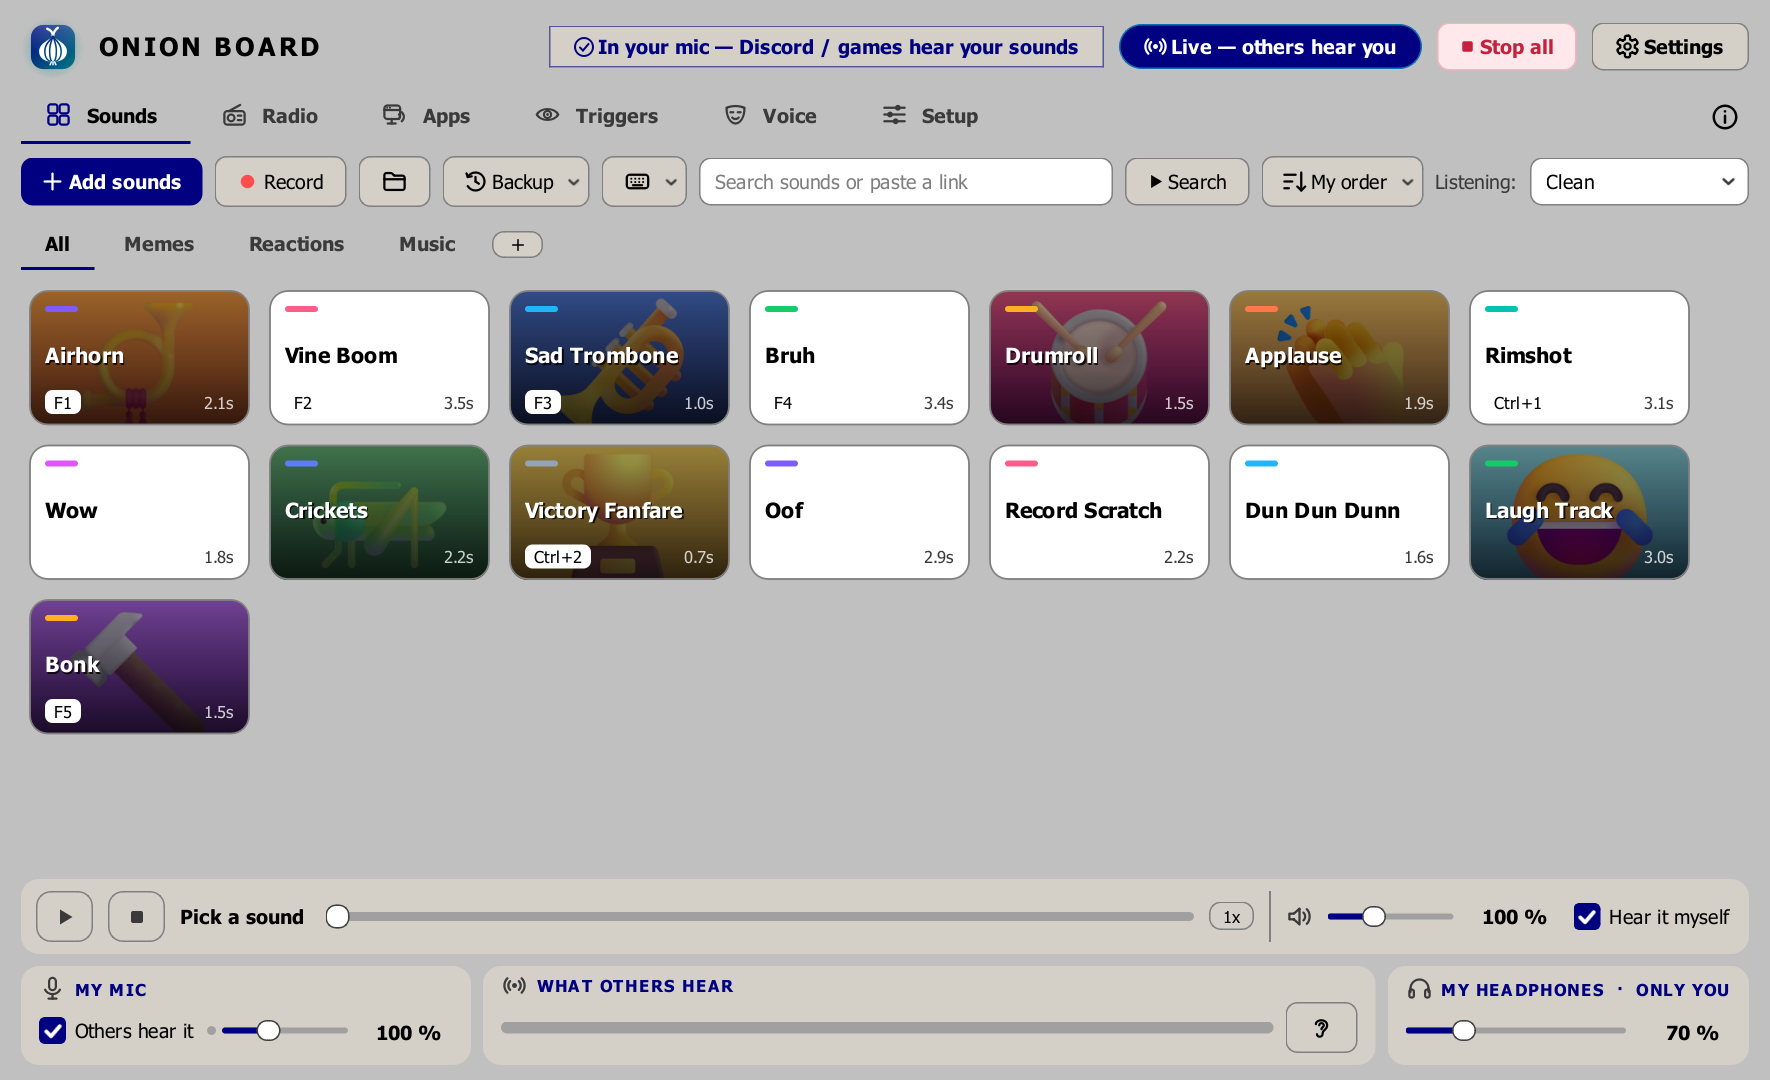
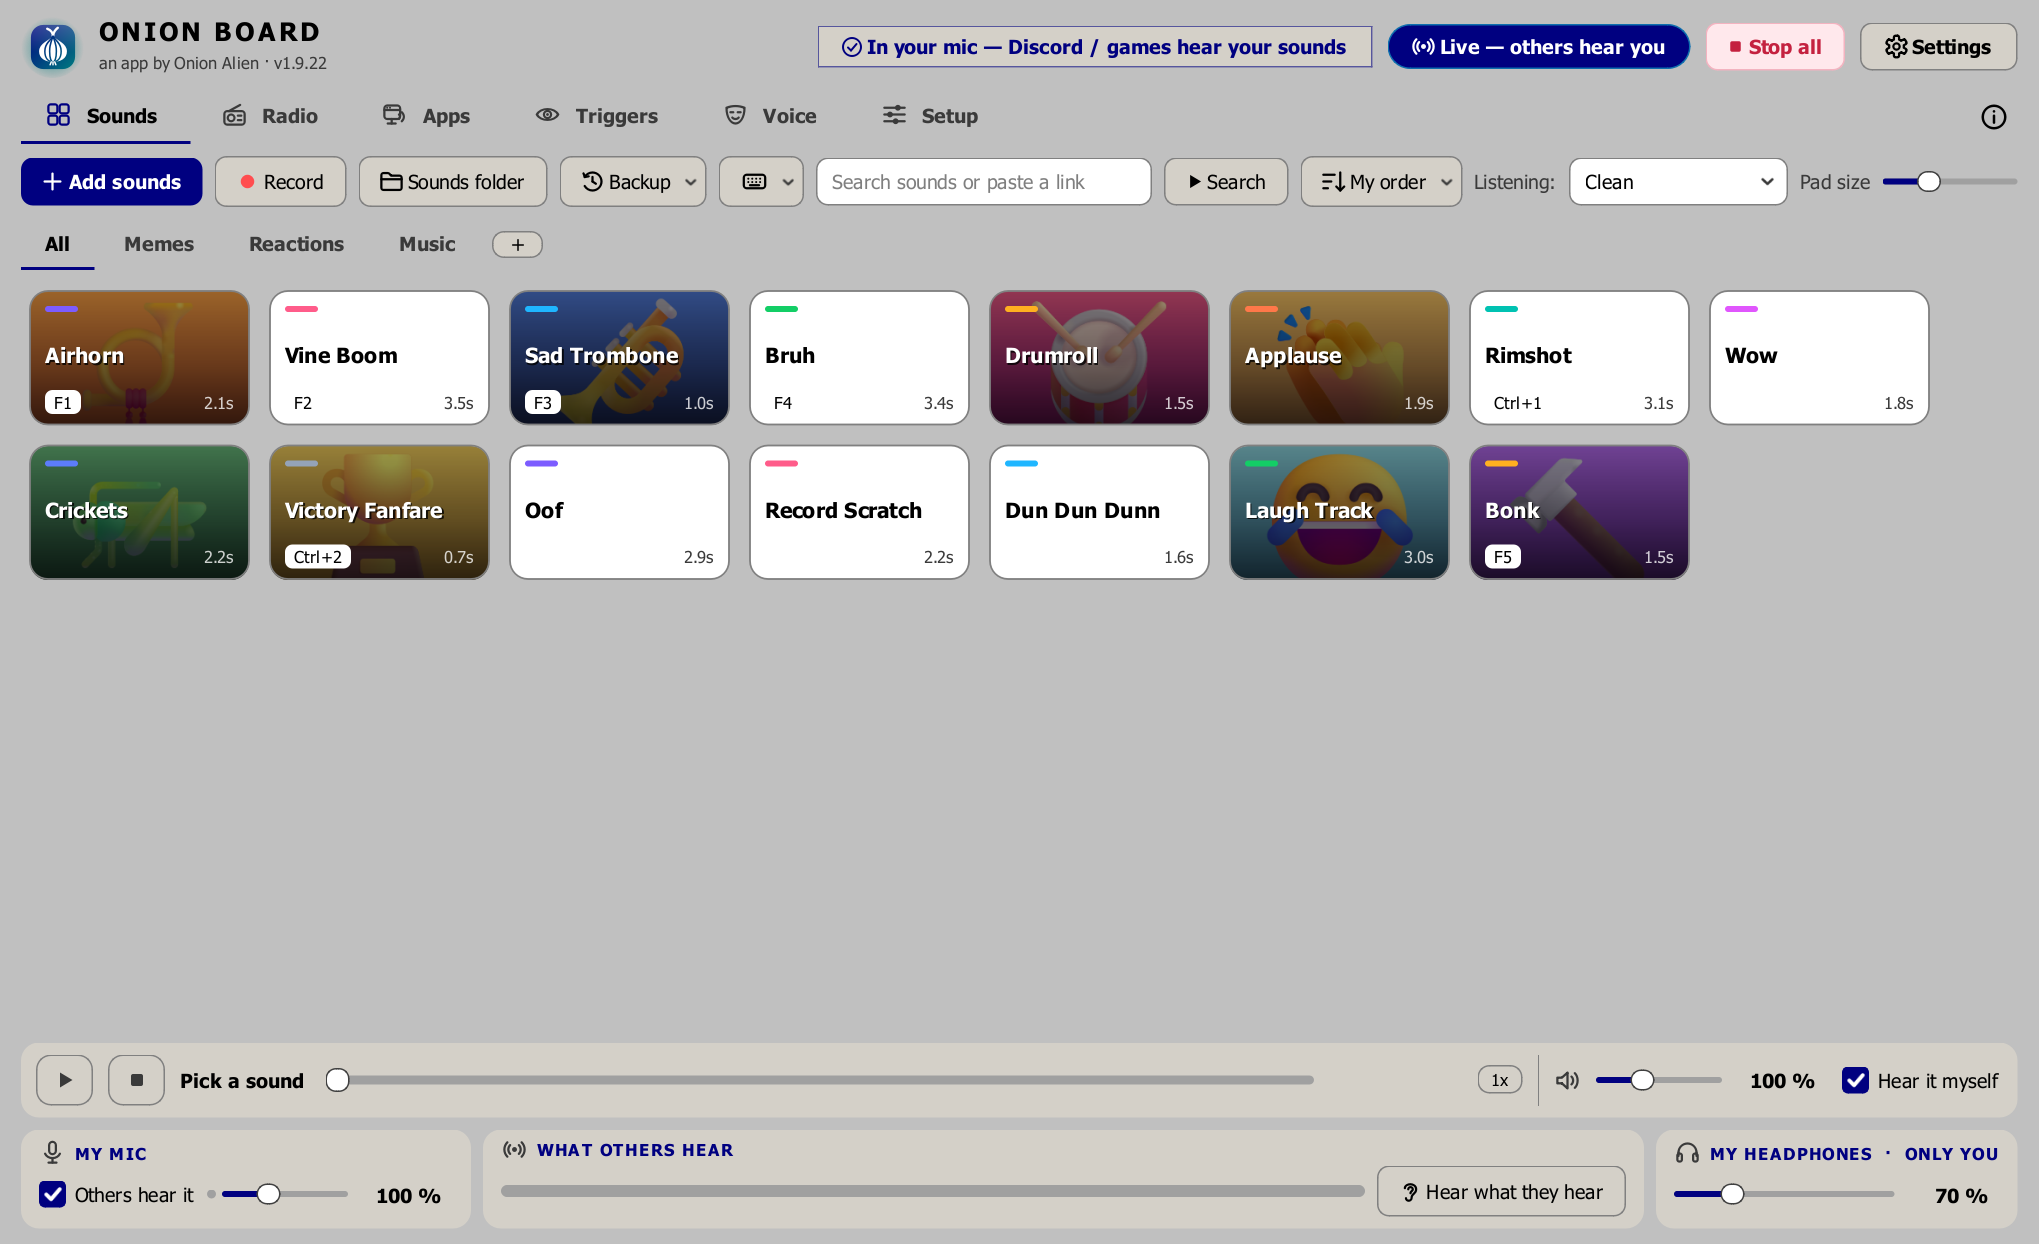
Screenshots: render wide enough that nothing folds away
The top row grew (Record, sort), so at 1180 px the window folded away the tagline with
the version, button words, the time and Hear what they hear. Size the window to what
the content needs instead (now 1359 px, same shape).

diff --git a/docs/index.html b/docs/index.html
@@ -7,7 +7,7 @@
 <meta name="description" content="Free Windows soundboard: play sounds into Discord and games through your mic. In-game hotkeys, an overlay, effects, a voice changer, text-to-speech, instant replay, and screen triggers that play a sound when something shows up, like YOU DIED.">
 <meta property="og:title" content="Onion Board: free soundboard for Discord and games">
 <meta property="og:description" content="Play sounds through your mic in Discord and games. Voice changer, text-to-speech, and screen triggers that play a sound when you die.">
-<meta property="og:image" content="https://onion-alien.github.io/onion-board/screenshots/sounds.png?v=9d6180e1">
+<meta property="og:image" content="https://onion-alien.github.io/onion-board/screenshots/sounds.png?v=ee6b9b29">
 <meta property="og:type" content="website">
 <meta name="twitter:card" content="summary_large_image">
 <link rel="icon" href="favicon.ico" sizes="16x16 32x32 48x48">
@@ -22,7 +22,7 @@
  "description": "Free Windows soundboard: play sounds into Discord and games through your mic, with a voice changer, text-to-speech, in-game hotkeys and screen triggers.",
  "url": "https://onion-alien.github.io/onion-board/",
  "downloadUrl": "https://github.com/Onion-Alien/onion-board/releases/latest/download/OnionBoardSetup.exe",
- "screenshot": "https://onion-alien.github.io/onion-board/screenshots/sounds.png?v=9d6180e1",
+ "screenshot": "https://onion-alien.github.io/onion-board/screenshots/sounds.png?v=ee6b9b29",
  "offers": {"@type": "Offer", "price": "0", "priceCurrency": "USD"}}
 </script>
 <style>
@@ -138,7 +138,7 @@
       <a href="https://www.virustotal.com/gui/file/4c873ef6a062379d4a35307041f09d009a6670a821d5a23e518ef452f2518283">VirusTotal: 68 of 68 clean</a> ·
       <a href="https://github.com/Onion-Alien/onion-board/releases/latest">what's new</a></p>
     <!-- /release -->
-    <div class="stage3d"><img class="hero" src="screenshots/sounds.png?v=9d6180e1" width="1770" height="1080" alt="Onion Board's sound pads"></div>
+    <div class="stage3d"><img class="hero" src="screenshots/sounds.png?v=ee6b9b29" width="2039" height="1244" alt="Onion Board's sound pads"></div>
   </header>
 
   <h2>What it does</h2>
@@ -157,10 +157,10 @@
 
   <h2>A closer look</h2>
   <div class="grid shots reveal">
-    <figure><img src="screenshots/voice.png?v=51808369" alt="The Voice tab" loading="lazy"><figcaption>Voice changer and text-to-speech</figcaption></figure>
-    <figure><img src="screenshots/triggers.png?v=14e7c16b" alt="The Triggers tab" loading="lazy"><figcaption>Triggers: a sound when something shows up in your game</figcaption></figure>
-    <figure><img src="screenshots/apps.png?v=3c458fb0" alt="The Apps tab" loading="lazy"><figcaption>Send one program's sound to your friends</figcaption></figure>
-    <figure><img src="screenshots/setup.png?v=d1c585c2" alt="The Setup tab" loading="lazy"><figcaption>Setup shows at a glance whether they can hear you</figcaption></figure>
+    <figure><img src="screenshots/voice.png?v=fe4870e6" alt="The Voice tab" loading="lazy"><figcaption>Voice changer and text-to-speech</figcaption></figure>
+    <figure><img src="screenshots/triggers.png?v=0e262719" alt="The Triggers tab" loading="lazy"><figcaption>Triggers: a sound when something shows up in your game</figcaption></figure>
+    <figure><img src="screenshots/apps.png?v=4c0f133e" alt="The Apps tab" loading="lazy"><figcaption>Send one program's sound to your friends</figcaption></figure>
+    <figure><img src="screenshots/setup.png?v=d3069da5" alt="The Setup tab" loading="lazy"><figcaption>Setup shows at a glance whether they can hear you</figcaption></figure>
   </div>
 
   <h2>Get started</h2>

diff --git a/docs/soundboard-without-virtual-cable/index.html b/docs/soundboard-without-virtual-cable/index.html
@@ -7,7 +7,7 @@
 <meta name="description" content="Play sounds through your mic on Windows without installing VB-Cable or Voicemeeter. Onion Board is a free soundboard that puts sounds straight into the mic Discord and games already use.">
 <meta property="og:title" content="A soundboard that needs no virtual cable">
 <meta property="og:description" content="Free Windows soundboard: sounds go straight into the mic you already use. No VB-Cable, no Voicemeeter, nothing to pick in Discord.">
-<meta property="og:image" content="https://onion-alien.github.io/onion-board/screenshots/setup.png?v=d1c585c2">
+<meta property="og:image" content="https://onion-alien.github.io/onion-board/screenshots/setup.png?v=d3069da5">
 <meta property="og:type" content="article">
 <meta name="twitter:card" content="summary_large_image">
 <link rel="icon" href="../favicon.ico" sizes="16x16 32x32 48x48">
@@ -45,7 +45,7 @@
   <p>One click, <b>Put my sounds straight into my mic</b>, adds a small audio effect to your mic in
     Windows' own audio engine (Windows asks for permission once). From then on, anything that listens
     to your mic hears your sounds mixed in. Nothing to pick in Discord, nothing to change in your games.</p>
-  <img src="../screenshots/setup.png?v=d1c585c2" alt="Onion Board's Setup tab showing the sounds going into the mic" loading="lazy" width="1100" height="736">
+  <img src="../screenshots/setup.png?v=d3069da5" alt="Onion Board's Setup tab showing the sounds going into the mic" loading="lazy" width="1100" height="736">
   <p>It backs up your mic's settings first, and puts them back when you switch it off or uninstall.</p>
 
   <h2>Setup, step by step</h2>

diff --git a/docs/discord-soundboard/index.html b/docs/discord-soundboard/index.html
@@ -7,7 +7,7 @@
 <meta name="description" content="Play any sound or song through your mic in Discord voice chat, with hotkeys that work in-game. Free Windows soundboard, no Nitro, no length limit. Step-by-step setup.">
 <meta property="og:title" content="How to play sounds through your mic in Discord">
 <meta property="og:description" content="Free Windows soundboard: any sound, any length, hotkeys that work in-game. Setup takes two minutes.">
-<meta property="og:image" content="https://onion-alien.github.io/onion-board/screenshots/sounds.png?v=9d6180e1">
+<meta property="og:image" content="https://onion-alien.github.io/onion-board/screenshots/sounds.png?v=ee6b9b29">
 <meta property="og:type" content="article">
 <meta name="twitter:card" content="summary_large_image">
 <link rel="icon" href="../favicon.ico" sizes="16x16 32x32 48x48">
@@ -56,7 +56,7 @@
       or use push-to-talk. Onion Board reads these settings and shows a bar when one is in the way.</li>
     <li>Drag sound files onto the Onion Board window and double-click a pad. Everyone in the call hears it.</li>
   </ol>
-  <img src="../screenshots/sounds.png?v=9d6180e1" alt="Onion Board's sound pads" loading="lazy" width="1100" height="736">
+  <img src="../screenshots/sounds.png?v=ee6b9b29" alt="Onion Board's sound pads" loading="lazy" width="1100" height="736">
 
   <h2>Play sounds while you're in a game</h2>
   <p>Right-click a pad and give it a <b>hotkey</b>. Hotkeys work even while a fullscreen game has

diff --git a/docs/play-sounds-through-mic/index.html b/docs/play-sounds-through-mic/index.html
@@ -7,7 +7,7 @@
 <meta name="description" content="How to play sounds and music through your microphone on Windows so others hear them in Discord, games and calls, without a virtual cable. Free, step by step.">
 <meta property="og:title" content="How to play sounds through your mic">
 <meta property="og:description" content="Play sounds and music through your mic on Windows, free, no virtual cable.">
-<meta property="og:image" content="https://onion-alien.github.io/onion-board/screenshots/setup.png?v=d1c585c2">
+<meta property="og:image" content="https://onion-alien.github.io/onion-board/screenshots/setup.png?v=d3069da5">
 <meta property="og:type" content="article">
 <meta name="twitter:card" content="summary_large_image">
 <link rel="icon" href="../favicon.ico" sizes="16x16 32x32 48x48">
@@ -33,7 +33,7 @@
   <p>Install a soundboard that mixes sounds into your mic. Onion Board does it with one click and no
     virtual cable: it adds a small audio effect to your mic in Windows' own audio engine, so every app
     that listens to your mic hears your voice and your sounds together.</p>
-  <img src="../screenshots/setup.png?v=d1c585c2" alt="Onion Board's Setup tab showing sounds going into the mic" loading="lazy" width="1100" height="736">
+  <img src="../screenshots/setup.png?v=d3069da5" alt="Onion Board's Setup tab showing sounds going into the mic" loading="lazy" width="1100" height="736">
 
   <h2>Step by step</h2>
   <ol>

diff --git a/docs/free-soundpad-alternative/index.html b/docs/free-soundpad-alternative/index.html
@@ -7,7 +7,7 @@
 <meta name="description" content="Looking for a free alternative to Soundpad or Voicemod? Onion Board is a free Windows soundboard with a voice changer, text-to-speech, in-game hotkeys and screen triggers. No account, no ads.">
 <meta property="og:title" content="A free Soundpad and Voicemod alternative">
 <meta property="og:description" content="Free Windows soundboard with a voice changer, text-to-speech, in-game hotkeys and screen triggers.">
-<meta property="og:image" content="https://onion-alien.github.io/onion-board/screenshots/sounds.png?v=9d6180e1">
+<meta property="og:image" content="https://onion-alien.github.io/onion-board/screenshots/sounds.png?v=ee6b9b29">
 <meta property="og:type" content="article">
 <meta name="twitter:card" content="summary_large_image">
 <link rel="icon" href="../favicon.ico" sizes="16x16 32x32 48x48">
@@ -69,7 +69,7 @@
     banner or a kill icon, and it plays a sound the moment that picture shows up. Set a sad
     trombone for every death and never press a key. It watches the game's own window, works
     behind other windows, and runs entirely on your PC.</p>
-  <img src="../screenshots/triggers.png?v=14e7c16b" alt="Onion Board's Triggers tab" loading="lazy" width="1100" height="736">
+  <img src="../screenshots/triggers.png?v=0e262719" alt="Onion Board's Triggers tab" loading="lazy" width="1100" height="736">
 
   <h2>Switching over</h2>
   <ol>

diff --git a/docs/resanance-alternative/index.html b/docs/resanance-alternative/index.html
@@ -7,7 +7,7 @@
 <meta name="description" content="Looking for a Resanance alternative? Onion Board is a free Windows soundboard that imports your Resanance sounds and hotkeys in one click and plays them through your mic with no virtual cable.">
 <meta property="og:title" content="A Resanance alternative that imports your board">
 <meta property="og:description" content="Free Windows soundboard: your Resanance sounds and hotkeys come over in one click.">
-<meta property="og:image" content="https://onion-alien.github.io/onion-board/screenshots/sounds.png?v=9d6180e1">
+<meta property="og:image" content="https://onion-alien.github.io/onion-board/screenshots/sounds.png?v=ee6b9b29">
 <meta property="og:type" content="article">
 <meta name="twitter:card" content="summary_large_image">
 <link rel="icon" href="../favicon.ico" sizes="16x16 32x32 48x48">
@@ -45,7 +45,7 @@
     <li><b>Add sounds from search:</b> YouTube, SoundCloud and Myinstants, one click to keep one as a pad.</li>
     <li><b>Screen triggers:</b> play a sound when something shows up in your game, like "YOU DIED".</li>
   </ul>
-  <img src="../screenshots/sounds.png?v=9d6180e1" alt="Onion Board's Sounds tab with pads" loading="lazy" width="1100" height="736">
+  <img src="../screenshots/sounds.png?v=ee6b9b29" alt="Onion Board's Sounds tab with pads" loading="lazy" width="1100" height="736">
 
   <h2>Switching over</h2>
   <ol>

diff --git a/docs/exp-soundboard-alternative/index.html b/docs/exp-soundboard-alternative/index.html
@@ -7,7 +7,7 @@
 <meta name="description" content="Looking for an EXP Soundboard alternative? Onion Board is a free Windows soundboard that imports your EXP sounds and hotkeys in one click, needs no Java and no virtual cable.">
 <meta property="og:title" content="An EXP Soundboard alternative that imports your board">
 <meta property="og:description" content="Free Windows soundboard: no Java, no virtual cable, your EXP board comes over in one click.">
-<meta property="og:image" content="https://onion-alien.github.io/onion-board/screenshots/sounds.png?v=9d6180e1">
+<meta property="og:image" content="https://onion-alien.github.io/onion-board/screenshots/sounds.png?v=ee6b9b29">
 <meta property="og:type" content="article">
 <meta name="twitter:card" content="summary_large_image">
 <link rel="icon" href="../favicon.ico" sizes="16x16 32x32 48x48">
@@ -44,7 +44,7 @@
     <li><b>Add sounds from search:</b> YouTube, SoundCloud and Myinstants.</li>
     <li><b>Updates itself</b> when a new version is out (you click Update now).</li>
   </ul>
-  <img src="../screenshots/sounds.png?v=9d6180e1" alt="Onion Board's Sounds tab with pads" loading="lazy" width="1100" height="736">
+  <img src="../screenshots/sounds.png?v=ee6b9b29" alt="Onion Board's Sounds tab with pads" loading="lazy" width="1100" height="736">
 
   <h2>Switching over</h2>
   <ol>

diff --git a/docs/discord-text-to-speech-voice-chat/index.html b/docs/discord-text-to-speech-voice-chat/index.html
@@ -7,7 +7,7 @@
 <meta name="description" content="Type a line and have it spoken in Discord voice chat or in-game voice. Free Windows app: Windows voices or your own (Kokoro, Piper), voice effects, and live speech in 33 languages.">
 <meta property="og:title" content="Text-to-speech in Discord voice chat">
 <meta property="og:description" content="Type a line, everyone in the voice channel hears it. Free, Windows.">
-<meta property="og:image" content="https://onion-alien.github.io/onion-board/screenshots/voice.png?v=51808369">
+<meta property="og:image" content="https://onion-alien.github.io/onion-board/screenshots/voice.png?v=fe4870e6">
 <meta property="og:type" content="article">
 <meta name="twitter:card" content="summary_large_image">
 <link rel="icon" href="../favicon.ico" sizes="16x16 32x32 48x48">
@@ -38,7 +38,7 @@
       press <b>Enter</b>. It's spoken in the voice you picked, into your mic.</li>
     <li><b>Save as sound</b> keeps a line as a pad, so you can give it a hotkey and play it in-game.</li>
   </ol>
-  <img src="../screenshots/voice.png?v=51808369" alt="Onion Board's Voice tab with text-to-speech" loading="lazy" width="1100" height="736">
+  <img src="../screenshots/voice.png?v=fe4870e6" alt="Onion Board's Voice tab with text-to-speech" loading="lazy" width="1100" height="736">
 
   <h2>Voices</h2>
   <ul>

diff --git a/docs/voicemod-alternative/index.html b/docs/voicemod-alternative/index.html
@@ -7,7 +7,7 @@
 <meta name="description" content="A free alternative to Voicemod for Windows: a soundboard and a live voice changer with 21 voices, optional AI voices, text-to-speech and in-game hotkeys. No account, no subscription.">
 <meta property="og:title" content="A free Voicemod alternative">
 <meta property="og:description" content="Soundboard + live voice changer for Discord and games. Free, no account.">
-<meta property="og:image" content="https://onion-alien.github.io/onion-board/screenshots/voice.png?v=51808369">
+<meta property="og:image" content="https://onion-alien.github.io/onion-board/screenshots/voice.png?v=fe4870e6">
 <meta property="og:type" content="article">
 <meta name="twitter:card" content="summary_large_image">
 <link rel="icon" href="../favicon.ico" sizes="16x16 32x32 48x48">
@@ -43,7 +43,7 @@
     <tr><td>Account needed</td><td>No</td></tr>
     <tr><td>Price</td><td>Free</td></tr>
   </table>
-  <img src="../screenshots/voice.png?v=51808369" alt="Onion Board's Voice tab with the voice changer" loading="lazy" width="1100" height="736">
+  <img src="../screenshots/voice.png?v=fe4870e6" alt="Onion Board's Voice tab with the voice changer" loading="lazy" width="1100" height="736">
 
   <h2>Set up in two minutes</h2>
   <ol>

diff --git a/docs/zoom-google-meet-soundboard/index.html b/docs/zoom-google-meet-soundboard/index.html
@@ -7,7 +7,7 @@
 <meta name="description" content="Play sounds, music and text-to-speech in Zoom and Google Meet calls on Windows. Free soundboard, plus the one setting in each app that stops your sounds being filtered out.">
 <meta property="og:title" content="A soundboard for Zoom and Google Meet">
 <meta property="og:description" content="Play sounds in Zoom and Meet calls, and the setting that stops them being filtered out.">
-<meta property="og:image" content="https://onion-alien.github.io/onion-board/screenshots/sounds.png?v=9d6180e1">
+<meta property="og:image" content="https://onion-alien.github.io/onion-board/screenshots/sounds.png?v=ee6b9b29">
 <meta property="og:type" content="article">
 <meta name="twitter:card" content="summary_large_image">
 <link rel="icon" href="../favicon.ico" sizes="16x16 32x32 48x48">

diff --git a/scripts/screenshots.py b/scripts/screenshots.py
@@ -250,6 +250,14 @@ def main():
     w.show()
     w._update_status()
     spin(1.5)
+    # wide enough that nothing folds away (the tagline with the version, the buttons'
+    # words): the top row grows as features are added, and 1180 stopped being enough
+    w._fit.reset()
+    need = w._fit.need().width()
+    if need > w.width():
+        w.resize(need, round(need * 720 / 1180))
+        spin(1.5)
+    print("window", w.width(), "x", w.height(), "- needs", need)
     for page, name in ((w.sounds_page, "sounds"), (w.apps, "apps"), (w.voice, "voice"),
                        (w.setup_page, "setup")):
         w.tabs.setCurrentWidget(page)
